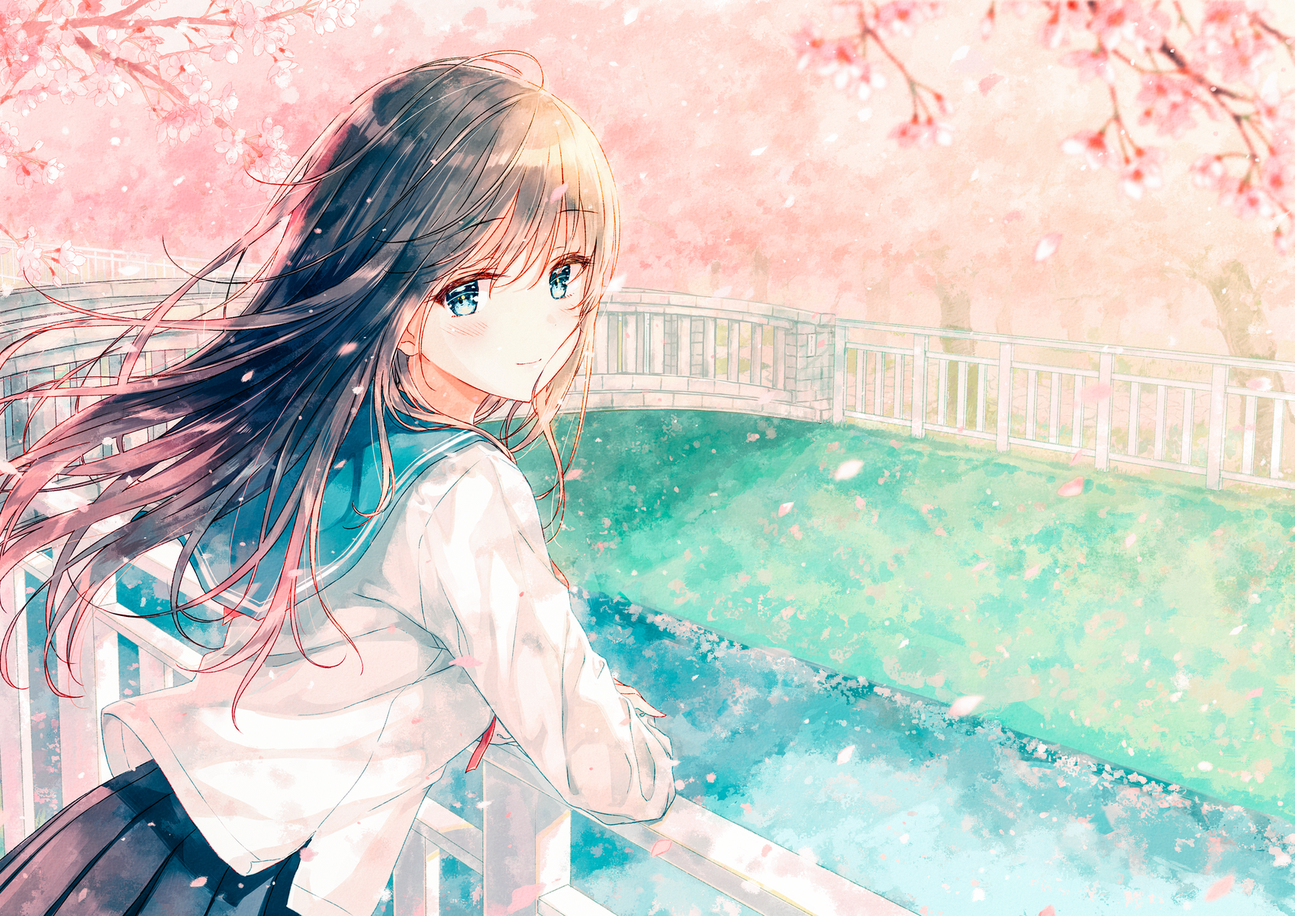
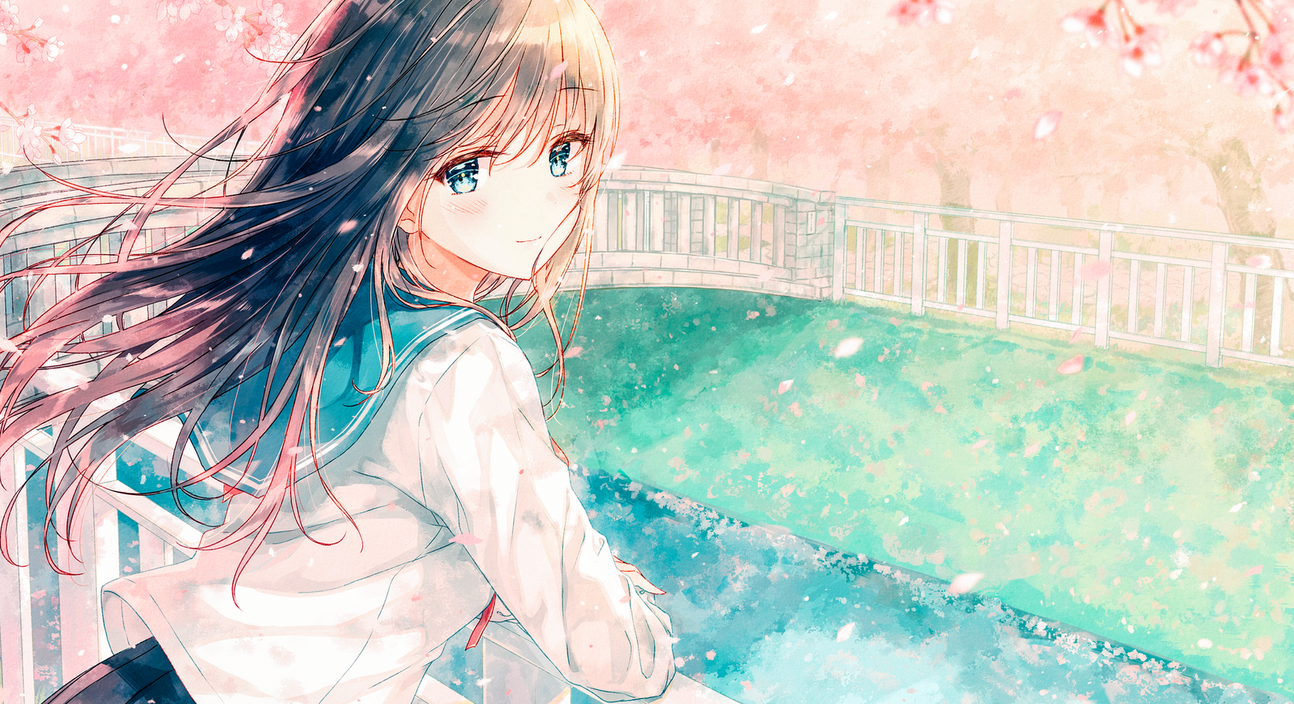
shadow

diff --git a/front-end/src/layout/blog/index.vue b/front-end/src/layout/blog/index.vue
@@ -6,26 +6,31 @@
                     <div v-if="this.$route.path == '/index'" class="img-back">
                         <img
                             ref="background"
-                            style="height: auto; width: 100%"
+                            style="width: 100%"
                             :src="require('@/assets/background/jk.png')"
                         />
                     </div>
                     <div v-else>
                         <img
                             ref="background"
-                            style="height: auto; width: 100%"
+                            style="width: 100%"
                             :src="require('@/assets/background/double_jk.png')"
                         />
                     </div>
                 </el-col>
             </el-row>
             <a-affix :offset_top="0">
-                <div style="width: 100%">
+                <div
+                    style="
+                        width: 100%;
+                        box-shadow: 0px 6px 2px -6px #000;
+                        border-radius: 10px;
+                    "
+                >
                     <el-menu
                         class="blog-el-menu"
                         :router="true"
                         :default-active="'/index'"
-                        style="background-color: #e6e6fa"
                     >
                         <el-row>
                             <el-col :xs="0">
@@ -82,15 +87,6 @@
         <el-main>
             <keep-alive><router-view /></keep-alive>
         </el-main>
-        <el-footer>
-            <div>
-                <small>
-                    <a href="https://beian.miit.gov.cn">
-                        浙ICP备2021004697号-1
-                    </a>
-                </small>
-            </div>
-        </el-footer>
     </el-container>
 </template>
 
@@ -110,7 +106,6 @@ export default {
 
 <style>
 .el-header {
-    background-color: #e6e6fa;
     padding: 0px 0px;
     color: #333;
     text-align: center;
@@ -118,7 +113,6 @@ export default {
     width: 100%;
 }
 .el-footer {
-    background-color: #e6e6fa;
     color: #333;
     text-align: center;
     line-height: 60px;

diff --git a/front-end/public/index.html b/front-end/public/index.html
@@ -200,8 +200,8 @@
 			opacity: 0.5;
 		}
 	</style>
-	<script src="/live2dw/lib/L2Dwidget.min.js" />
-	<script src="/js/sakura.js" />
+	<!-- <script src="/live2dw/lib/L2Dwidget.min.js"></script> -->
+	<script src="/js/sakura.js"></script>
 </head>
 
 <body>
